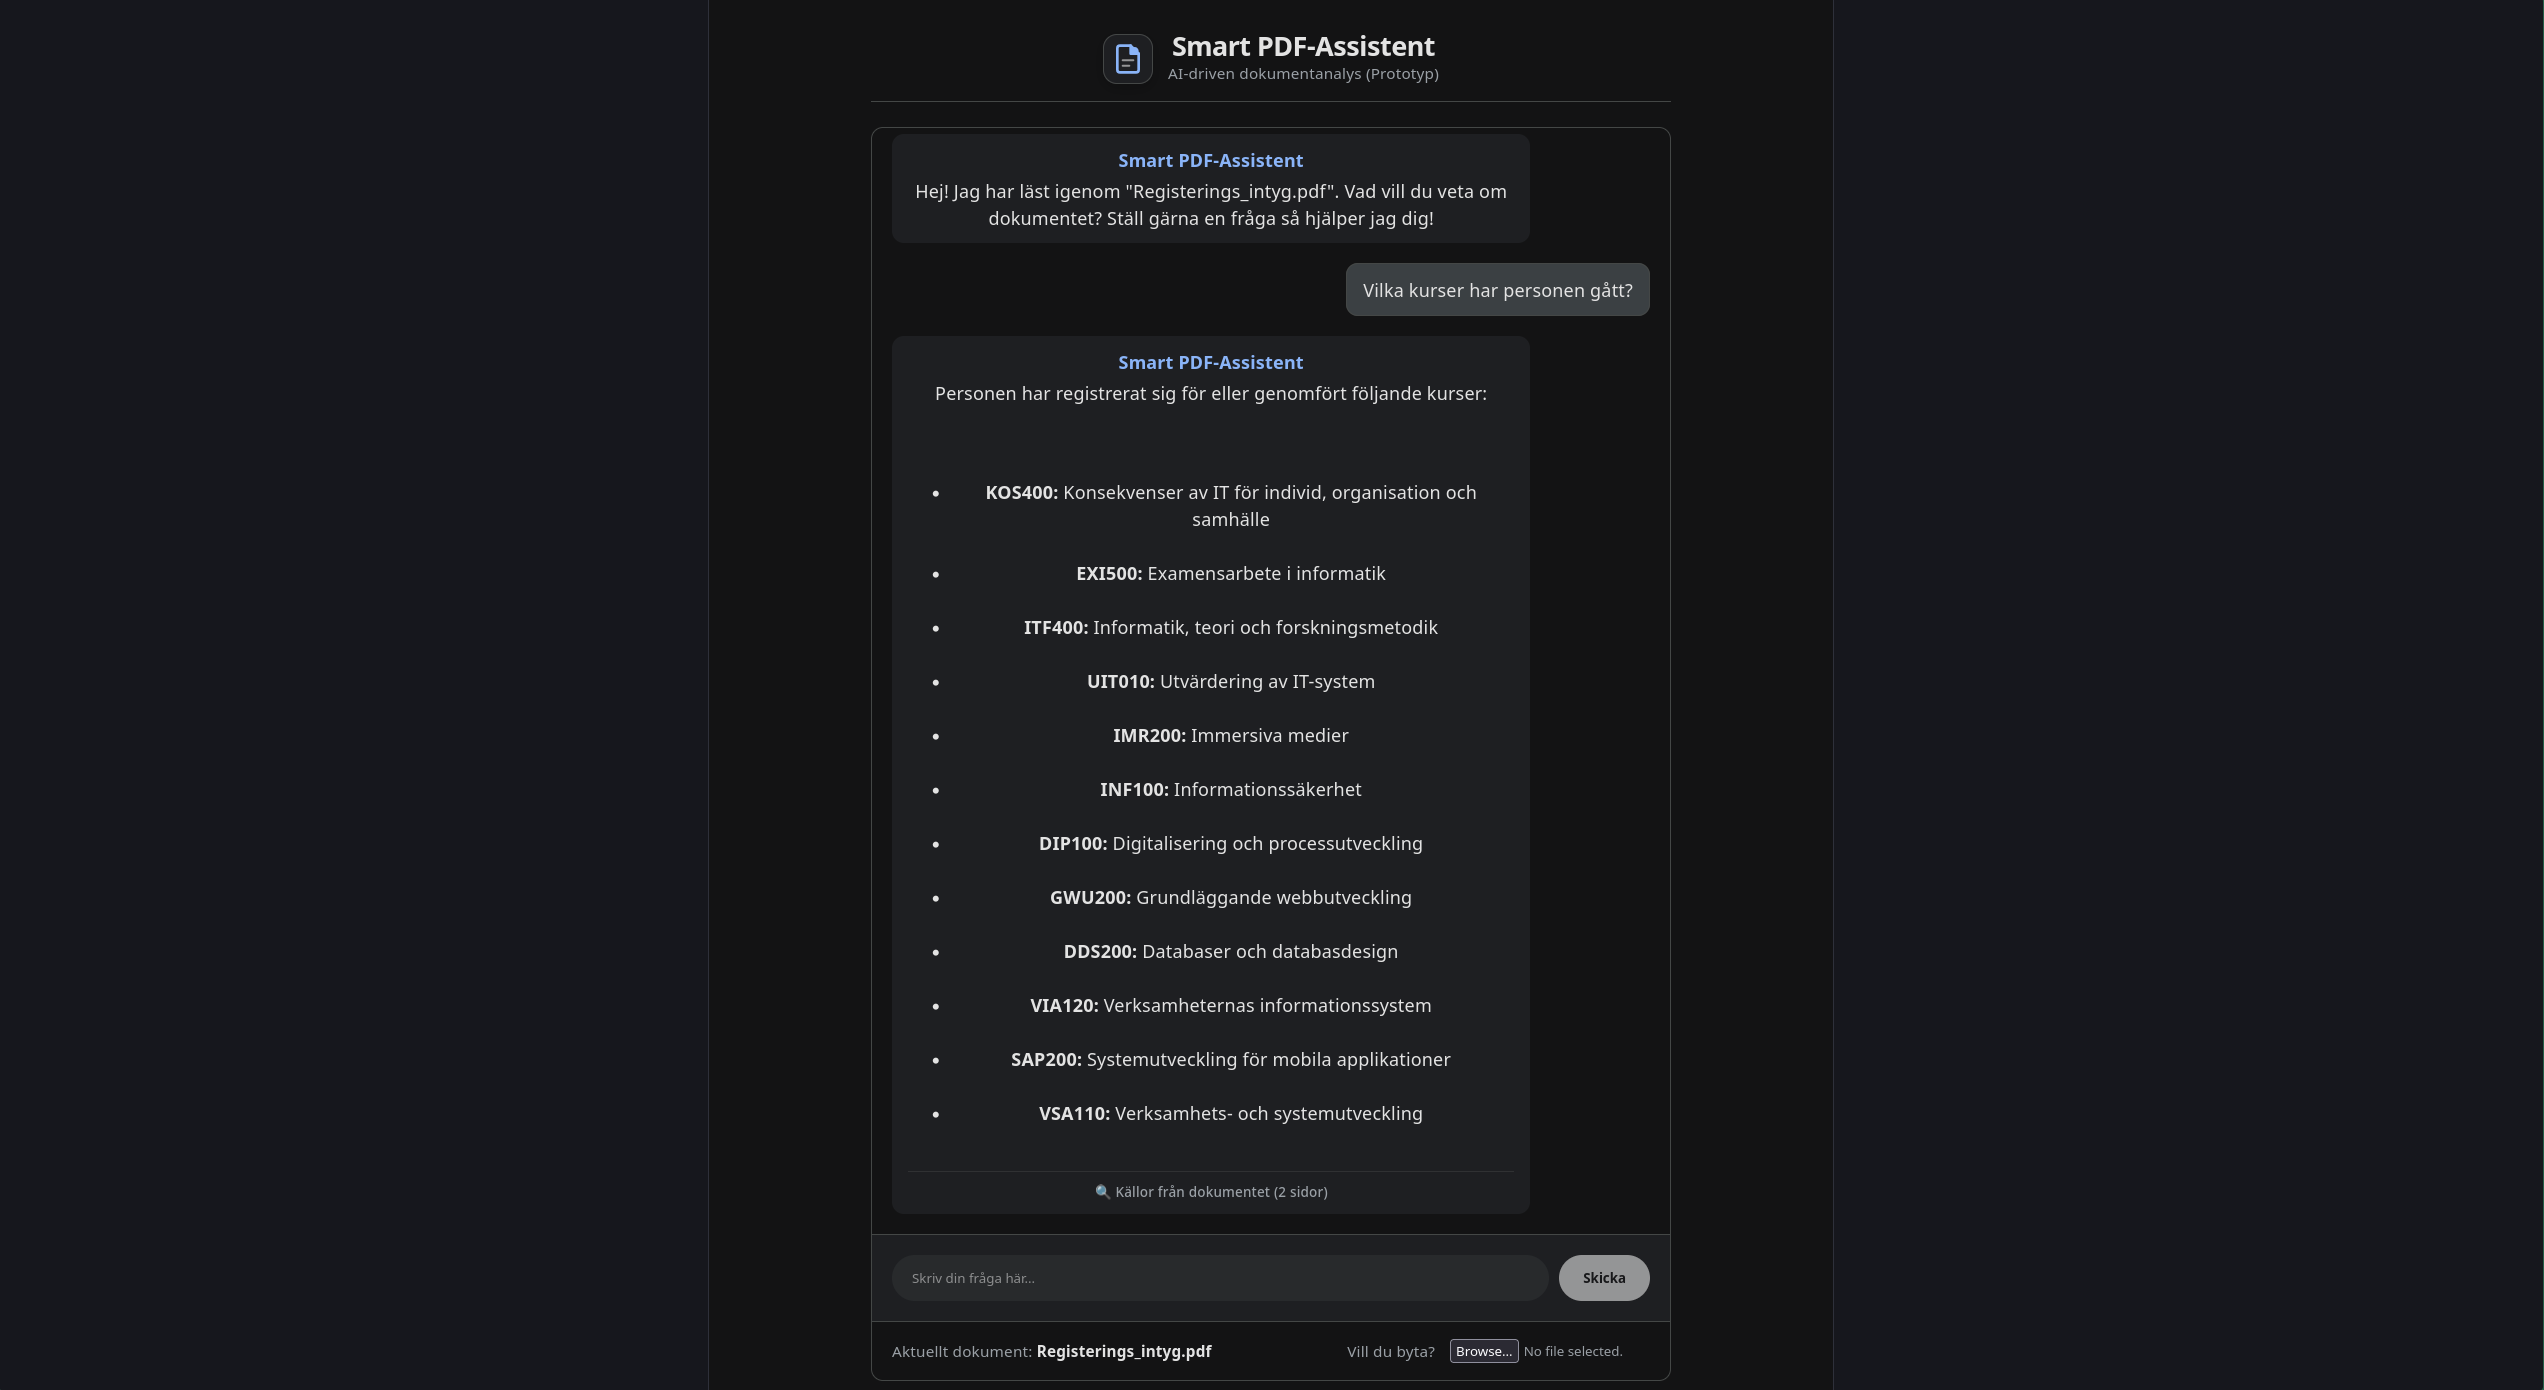
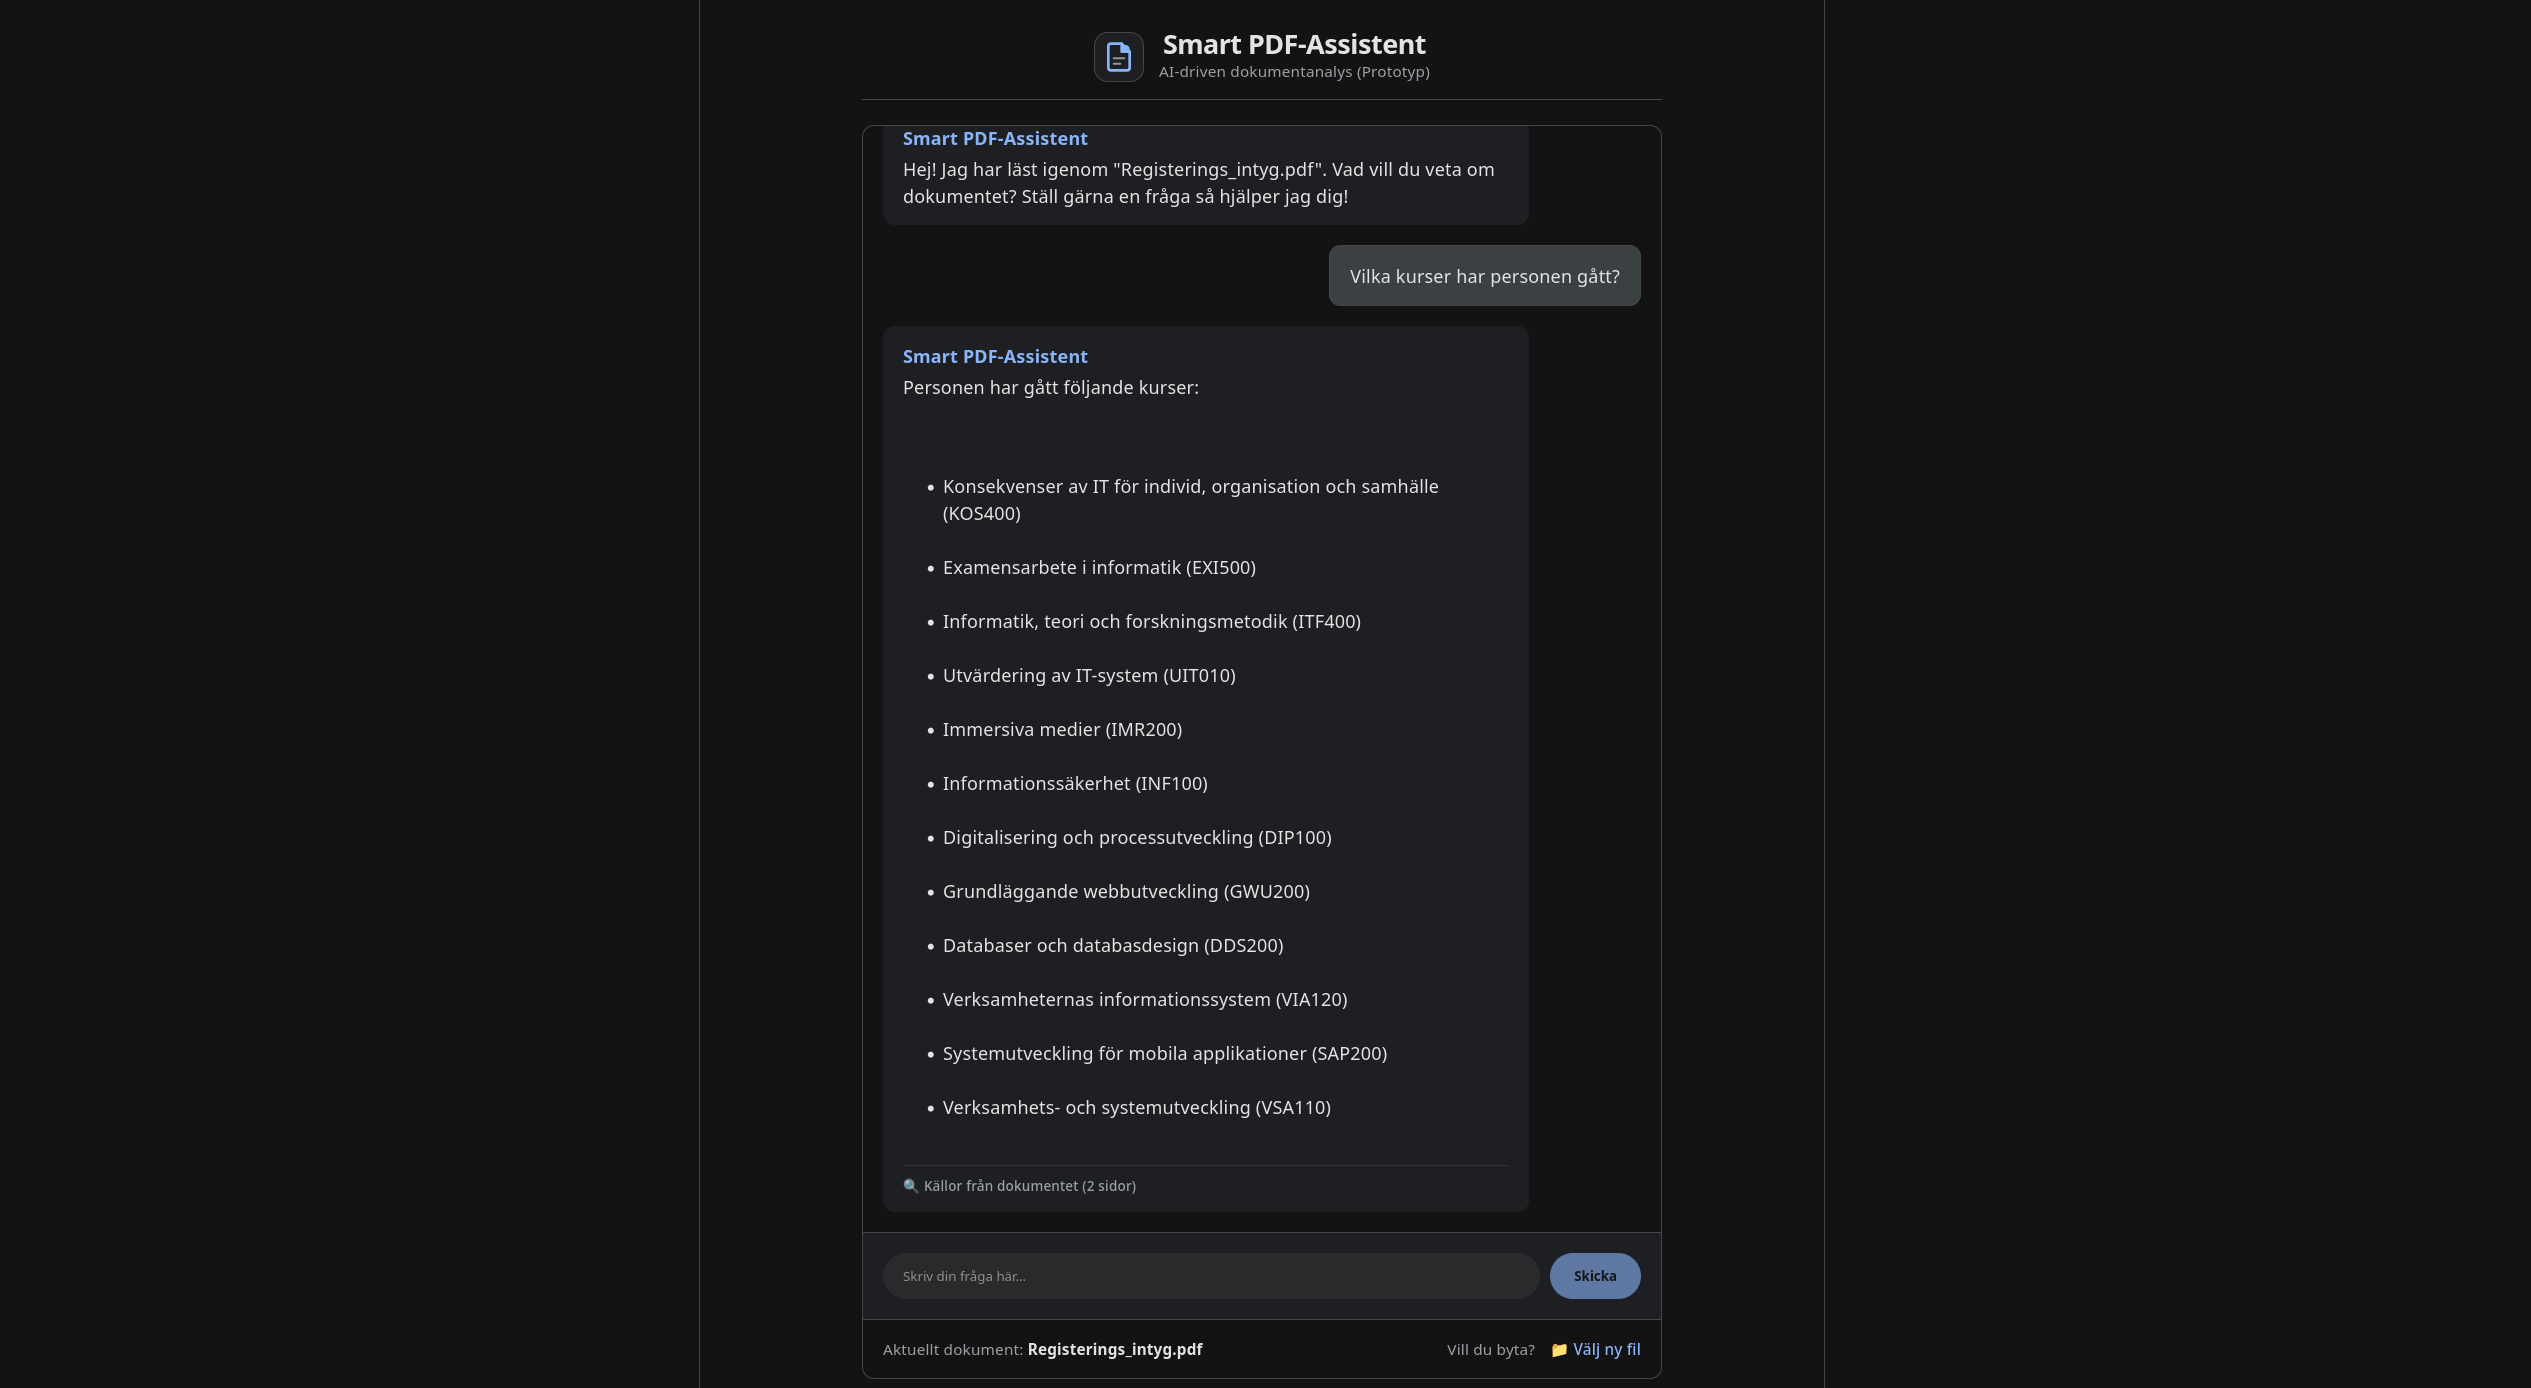
UX: Vänsterställde chattbubblor, uppdaterade skicka-knappen och skapade en anpassad filväljare samt uppdaterade bilder

diff --git a/frontend/src/App.jsx b/frontend/src/App.jsx
@@ -249,9 +249,19 @@ function App() {
                             {messages.map((msg, index) => {
                                 const isLongUserMessage = msg.role === 'user' && msg.text.length > 250;
 
+                                // =====================================================================
+                                // ANIMATIONS-LOGIK (React Reconciliation)
+                                // ---------------------------------------------------------------------
+                                // Genom att dynamiskt byta 'key' när meddelandet går från temporärt
+                                // ("Tänker...") till färdigt svar, tvingar vi React att radera den gamla
+                                // bubblan och rendera en helt ny. Detta gör att CSS-animationen spelas upp!
+                                // =====================================================================
+                                const messageKey = msg.isTemp ? `temp-${index}` : `msg-${index}`;
+                                const isFinishedAiResponse = msg.role === 'ai' && !msg.isTemp;
+
                                 return (
-                                    <div key={index} className={`message-wrapper ${msg.role}`}>
-                                        <div className={`message-bubble ${msg.role}`}>
+                                    <div key={messageKey} className={`message-wrapper ${msg.role}`}>
+                                        <div className={`message-bubble ${msg.role} ${isFinishedAiResponse ? 'ai-pop-animation' : ''}`}>
                                             {msg.role === 'ai' && <strong className="message-sender">Smart PDF-Assistent</strong>}
 
                                             {isLongUserMessage ? (
@@ -341,13 +351,22 @@ function App() {
 
                             <div className="footer-actions">
                                 <span className="footer-hint">Vill du byta?</span>
-                                <input
-                                    key={loadedFileName}
-                                    type="file"
-                                    accept=".pdf"
-                                    onChange={handleFileChange}
-                                    className="footer-file-input"
-                                />
+                                {/* =====================================================================
+                                    UX-FÖRBÄTTRING: Anpassad filväljare
+                                    ---------------------------------------------------------------------
+                                    Vi döljer webbläsarens standardknapp och använder en label som
+                                    fungerar som en klickbar länk istället för ett mycket renare UI.
+                                ===================================================================== */}
+                                <label className="footer-file-label">
+                                    <span className="footer-file-custom-btn">📁 Välj ny fil</span>
+                                    <input
+                                        key={loadedFileName}
+                                        type="file"
+                                        accept=".pdf"
+                                        onChange={handleFileChange}
+                                        style={{ display: 'none' }}
+                                    />
+                                </label>
                                 {file && (
                                     <button onClick={uploadPDF} className="change-doc-btn">
                                         Analysera nytt dokument

diff --git a/frontend/src/App.css b/frontend/src/App.css
@@ -234,10 +234,13 @@
 
 .message-bubble {
   max-width: 80%;
-  padding: 12px 16px;
+  /* UX: Ökade paddingen marginellt för bättre luftighet */
+  padding: 16px 20px;
   border-radius: 12px;
   white-space: pre-wrap;
   line-height: 1.5;
+  /* UX: Vänsterställer texten. Kritisk för läsbarhet av listor och långa stycken! */
+  text-align: left;
 }
 
 .message-bubble.user {
@@ -307,13 +310,19 @@
   outline: none;
 }
 
+/* UX: Gjorde knappen mer framträdande med accentfärgen för tydligare Call-To-Action */
 .send-btn {
   padding: 0 24px;
-  background-color: var(--text);
+  background-color: var(--accent);
   color: var(--bg);
   border: none;
   border-radius: 24px;
   font-weight: bold;
+  transition: opacity 0.2s; /* Mjuk övergång vid hover */
+}
+
+.send-btn:hover:not(:disabled) {
+  opacity: 0.9;
 }
 
 .send-btn:not(:disabled) {
@@ -348,9 +357,22 @@
   color: #9aa0a6;
 }
 
-.footer-file-input {
-  color: #9aa0a6;
-  width: 200px;
+/* UX: Styling för den anpassade filväljaren i footern */
+.footer-file-label {
+  display: flex;
+  align-items: center;
+}
+
+.footer-file-custom-btn {
+  color: var(--accent);
+  cursor: pointer;
+  font-weight: 500;
+  transition: opacity 0.2s;
+}
+
+.footer-file-custom-btn:hover {
+  opacity: 0.8;
+  text-decoration: underline;
 }
 
 .change-doc-btn {
@@ -474,4 +496,48 @@
 
 .spinner-icon {
   margin-right: 8px;
+}
+
+/* =====================================================================
+   ANIMATIONER (AI-Svar Effekter)
+   ---------------------------------------------------------------------
+   Ger en mjuk, modern "pop"-effekt och en ljusgradient som sveper
+   över svarsbubblan när AI:n har tänkt klart.
+===================================================================== */
+.ai-pop-animation {
+  position: relative;
+  overflow: hidden; /* Håller gradienten inuti bubblans rundade hörn */
+  animation: pop-in 0.5s cubic-bezier(0.175, 0.885, 0.32, 1.275) forwards;
+}
+
+/* Gradienten som sveper förbi. Pseudo-element används för att inte störa innehållet. */
+.ai-pop-animation::after {
+  content: "";
+  position: absolute;
+  top: 0;
+  left: -100%;
+  width: 60%;
+  height: 100%;
+  /* Skapar en mjuk övergång med applikationens accentfärg (ljusblå i detta fall) */
+  background: linear-gradient(
+          to right,
+          transparent,
+          rgba(138, 180, 248, 0.15),
+          transparent
+  );
+  animation: sweep-gradient 0.8s ease-out forwards;
+  pointer-events: none; /* Ser till att texten inuti fortfarande kan markeras av användaren */
+}
+
+/* Animation 1: Den mjuka popp-effekten */
+@keyframes pop-in {
+  0% { transform: scale(0.95); }
+  50% { transform: scale(1.02); }
+  100% { transform: scale(1); }
+}
+
+/* Animation 2: Gradient-svepet från vänster till höger */
+@keyframes sweep-gradient {
+  0% { left: -100%; }
+  100% { left: 200%; }
 }
